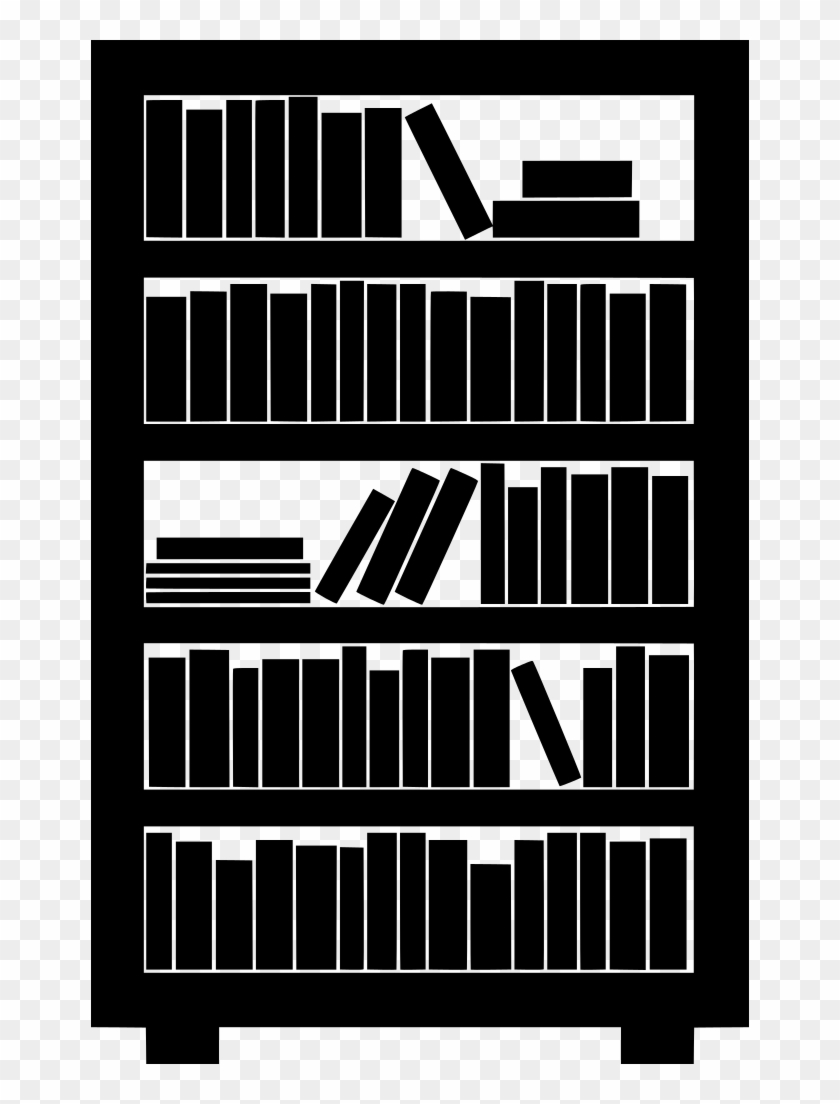
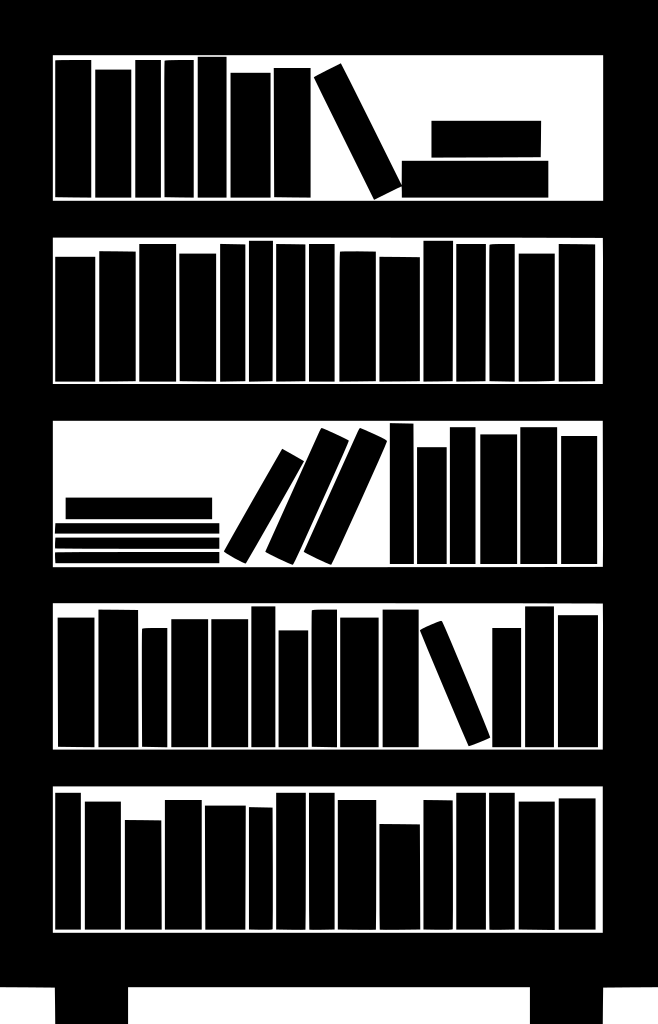
Add files via upload

diff --git a/Progetto/progetto.js b/Progetto/progetto.js
@@ -4,16 +4,16 @@ const Home = {
         <div><img src="./img/barra.jpg" alt="" /></div>
         <section>
             <h2 class="text-primary" id="primo">Cos'è una SEO?</h2>
-            <p class="text-secondary">SEO sta per “Search Engine Optimization.” È la pratica di aumentare sia la qualità che la quantità del <a href="./glossario.html#traffico">traffico</a> del sito Web, nonché l'esposizione al tuo marchio, attraverso risultati dei <a href="#terzo">motori di ricerca</a>                non a pagamento (noti anche come "organici").
+            <p class="text-secondary">SEO sta per “Search Engine Optimization.” È la pratica di aumentare sia la qualità che la quantità del <router-link to="/glossario">traffico</router-link> del sito Web, nonché l'esposizione al tuo marchio, attraverso risultati dei motori di ricerca           non a pagamento (noti anche come "organici").
                 <br/><br/> Nonostante l'acronimo, SEO riguarda tanto le persone quanto gli stessi motori di ricerca. Si tratta di capire cosa cercano le persone online, le risposte che vogliono, le parole che usano e il tipo di contenuto che desiderano
                 consumare. Conoscere le risposte a queste domande consente di entrare in contatto con le persone che cercano online le soluzioni che puoi offrire.
             </p>
         </section>
         <section>
             <h2 class="text-primary" id="sec">Perché è così importante</h2>
-            <p class="text-secondary">Sebbene la pubblicità a pagamento, i <a href="./glossario.html#social">social media</a> e altre piattaforme online possano generare <a href="./glossario.html#traffico">traffico</a> verso i siti Web, la maggior parte del traffico online è guidata
-                dai <a href="#terzo">motori di ricerca</a>.
-                <br/><br/> I risultati di ricerca <a href="./glossario.html#organico">organici</a> coprono più proprietà digitali, appaiono più credibili agli utenti esperti e ricevono molti più clic rispetto agli annunci a pagamento. Ad esempio, di tutte
+            <p class="text-secondary">Sebbene la pubblicità a pagamento, i <router-link to="/glossario">social media</router-link> e altre piattaforme online possano generare <router-link to="/glossario">traffico</router-link> verso i siti Web, la maggior parte del traffico online è guidata
+                dai motori di ricerca.
+                <br/><br/> I risultati di ricerca <router-link to="/glossario">organici</router-link> coprono più proprietà digitali, appaiono più credibili agli utenti esperti e ricevono molti più clic rispetto agli annunci a pagamento. Ad esempio, di tutte
                 le ricerche negli Stati Uniti, solo il 2,8% circa delle persone fa clic su annunci a pagamento.
                 <br/><br/> La SEO è anche uno dei pochi canali di marketing online che, se impostato correttamente, può continuare a dare i suoi frutti nel tempo. Se fornisci un contenuto solido che merita di essere classificato per le parole chiave giuste,
                 il tuo traffico può aumentare di volume nel tempo, mentre la pubblicità ha bisogno di finanziamenti continui per inviare traffico al tuo sito.
@@ -24,65 +24,55 @@ const Home = {
             <h2 class="text-primary" id="terzo">Motori di Ricerca</h2>
             <p class="text-secondary">I motori di ricerca sono macchine di risposta. Perlustrano miliardi di contenuti e valutano migliaia di fattori per determinare quale contenuto ha maggiori probabilità di rispondere alla tua domanda.
                 <br/><br/> I motori di ricerca fanno tutto questo scoprendo e catalogando tutti i contenuti disponibili su Internet (pagine Web, PDF, immagini, video, ecc.) tramite un processo noto come "scansione e indicizzazione" e quindi ordinandoli
-                in corrispondenza alla <a href="./glossario.html#query">query</a> in un processo denominato “ranking/classifica”.
+                in corrispondenza alla <router-link to="/glossario">query</router-link> in un processo denominato “ranking/classifica”.
             </p>
         </section>
         <section>
             <h2 class="text-primary" id="quarto">Come funzionano?</h2>
             <p class="text-secondary">I motori di ricerca funzionano attraverso tre funzioni principali:
-                <br/><br/> Scansione: esplora Internet alla ricerca di contenuti, esaminando il codice/il contenuto per ogni <a href="./glossario.html#url">URL</a> che trovano.
-                <br/><br/>Indicizzazione: archivia e organizza i contenuti trovati durante il processo di scansione. Una volta che una pagina è nell'indice, è in esecuzione per essere visualizzata come risultato di <a href="./glossario.html#query">query</a>                pertinenti.
+                <br/><br/> Scansione: esplora Internet alla ricerca di contenuti, esaminando il codice/il contenuto per ogni <router-link to="/glossario">URL</router-link> che trovano.
+                <br/><br/>Indicizzazione: archivia e organizza i contenuti trovati durante il processo di scansione. Una volta che una pagina è nell'indice, è in esecuzione per essere visualizzata come risultato di <router-link to="/glossario">query</router-link>                pertinenti.
                 <br/><br/>Classifica: fornisci i contenuti che rispondono meglio alla query di un ricercatore, il che significa che i risultati sono ordinati dal più pertinente al meno pertinente.
             </p>
         </section>
         <section>
             <h2 class="text-primary" id="quinto">Che cos'è la scansione?</h2>
-            <p class="text-secondary">La scansione è il processo di scoperta in cui i motori di ricerca inviano un team di <a href="./glossario.html#bot">bot</a> (noti come crawler o spider) per trovare contenuti nuovi e aggiornati. Il contenuto può variare — potrebbe essere una
+            <p class="text-secondary">La scansione è il processo di scoperta in cui i motori di ricerca inviano un team di <router-link to="/glossario">bot</router-link> (noti come crawler o spider) per trovare contenuti nuovi e aggiornati. Il contenuto può variare — potrebbe essere una
                 pagina web, un'immagine, un video, un PDF, ecc. — ma indipendentemente dal formato, il contenuto viene scoperto dai link.
-                <br/><br/> Googlebot inizia recuperando alcune pagine Web, quindi segue i collegamenti su tali pagine Web per trovare nuovi <a href="./glossario.html#url">URL</a>. Saltando lungo questo percorso di collegamenti, il crawler è in grado di
-                trovare nuovo contenuto e aggiungerlo al proprio indice chiamato <a href="./glossario.html#caf">Caffeine</a>, un enorme <a href="./glossario.html#url">database</a> di URL scoperti, per essere successivamente recuperato quando un ricercatore
+                <br/><br/> Googlebot inizia recuperando alcune pagine Web, quindi segue i collegamenti su tali pagine Web per trovare nuovi <router-link to="/glossario">URL</router-link>. Saltando lungo questo percorso di collegamenti, il crawler è in grado di
+                trovare nuovo contenuto e aggiungerlo al proprio indice chiamato <router-link to="/glossario">Caffeine</router-link>, un enorme <router-link to="/glossario">database</router-link> di URL scoperti, per essere successivamente recuperato quando un ricercatore
                 cerca informazioni e in quell’ URL si trova contenuto adatto alla ricerca.
             </p>
         </section>
         <section>
             <h2 class="text-primary" id="sesto">Che cos'è un indice?</h2>
-            <p class="text-secondary">I motori di ricerca elaborano e archiviano le informazioni che trovano in un indice, un enorme <a href="./glossario.html#url">database</a> di tutti i contenuti che hanno scoperto e che ritengono sufficientemente buoni da essere visualizzati
+            <p class="text-secondary">I motori di ricerca elaborano e archiviano le informazioni che trovano in un indice, un enorme <router-link to="/glossario">database</router-link> di tutti i contenuti che hanno scoperto e che ritengono sufficientemente buoni da essere visualizzati
                 dagli utenti.
             </p>
         </section>
         <section>
             <h2 class="text-primary" id="sett">Classifica sui motori di ricerca</h2>
             <p class="text-secondary">Quando qualcuno esegue una ricerca, i motori di ricerca setacciano il loro indice alla ricerca di contenuti altamente pertinenti e quindi ordinano quel contenuto nella speranza di risolvere la query del ricercatore. Questo ordinamento dei
-                risultati di ricerca per pertinenza è noto come ranking. In generale, puoi presumere che più alto è il ranking di un sito web, più il motore di ricerca ritiene che il sito sia pertinente alla <a href="./glossario.html#query">query</a>.
+                risultati di ricerca per pertinenza è noto come ranking. In generale, puoi presumere che più alto è il ranking di un sito web, più il motore di ricerca ritiene che il sito sia pertinente alla <router-link to="/glossario">query</router-link>.
                 <br/><br/> È possibile bloccare i crawler dei motori di ricerca da parte o tutto il tuo sito, o istruire i motori di ricerca per evitare di memorizzare determinate pagine nel loro indice. Anche se possono esserci delle ragioni per farlo,
                 se si vuole che i propri contenuti vengano trovati dai ricercatori, bisogna prima assicurarsi che siano accessibili ai crawler e che siano indicizzabili.
             </p>
         </section>
         <section>
             <h2 class="text-primary" id="ott">In che modo classificano gli URL?</h2>
-            <p class="text-secondary">Per determinare la pertinenza, i motori di ricerca utilizzano <a href="./glossario.html#alg">algoritmi</a>, un processo o una formula mediante il quale le informazioni archiviate vengono recuperate e ordinate in modo significativo. Questi
+            <p class="text-secondary">Per determinare la pertinenza, i motori di ricerca utilizzano <router-link to="/glossario">algoritmi</router-link>, un processo o una formula mediante il quale le informazioni archiviate vengono recuperate e ordinate in modo significativo. Questi
                 algoritmi hanno subito molti cambiamenti nel corso degli anni al fine di migliorare la qualità dei risultati di ricerca. Google, ad esempio, apporta modifiche all'algoritmo ogni giorno: alcuni di questi aggiornamenti sono modifiche di
-                qualità minori, mentre altri sono aggiornamenti di algoritmi principali implementati per affrontare un problema specifico, come Penguin per contrastare lo spam nei <a href="./altro.html">link</a>.
+                qualità minori, mentre altri sono aggiornamenti di algoritmi principali implementati per affrontare un problema specifico, come Penguin per contrastare lo spam nei <router-link to="/altro">link</router-link>.
                 <br/><br/> Perché l'algoritmo cambia così spesso? Sebbene Google non riveli sempre i dettagli sul motivo per cui fanno quello che fanno, sappiamo che l'obiettivo di Google quando apporta modifiche all'algoritmo è migliorare la qualità
                 complessiva della ricerca
             </p>
         </section>
-        <form action="/altro">
+        <form action="index.html#/altro">
             <input type="submit" value="Avanti" />
         </form>
     </main>
-    <aside>
-        <h2>Argomenti</h2>
-        <ul>
-            <li><a href="#primo">Cos'è una SEO?</a></li>
-            <li><a href="#sec">Perché è così importante</a></li>
-            <li><a href="#terzo">Motori di Ricerca</a></li>
-            <li><a href="#quarto">Come funzionano?</a></li>
-            <li><a href="#quinto">Che cos'è la scansione?</a></li>
-            <li><a href="#sesto">Che cos'è un indice?</a></li>
-            <li><a href="#sett">Classifica sui motori di ricerca</a></li>
-            <li><a href="#ott">In che modo classificano gli URL?</a></li>
-        </ul>
+    <aside class="scaf">
+        <img src="./img/seo.png" alt="" />
     </aside>
     `
 };
@@ -95,7 +85,7 @@ const Altro = {
             <h2 class="text-primary" id="primo">Il ruolo dei link nella SEO</h2>
             <p class="text-secondary" id="">Quando si parla di link, si possono intendere due cose. I backlink o "link interni" sono collegamenti da altri siti Web che puntano al proprio sito Web, mentre i collegamenti interni sono collegamenti al proprio sito che puntano ad altre pagine
                 (sullo stesso sito).
-                <br/><br/> I link hanno storicamente svolto un ruolo importante nella SEO. Molto presto, i motori di ricerca avevano bisogno di aiuto per capire quali <a href="./glossario.html#url">URL</a> fossero più affidabili di altri per aiutarli
+                <br/><br/> I link hanno storicamente svolto un ruolo importante nella SEO. Molto presto, i motori di ricerca avevano bisogno di aiuto per capire quali <router-link to="/glossario">URL</router-link> fossero più affidabili di altri per aiutarli
                 a determinare come classificare i risultati di ricerca. Il calcolo del numero di collegamenti che puntano a un determinato sito li ha aiutati a farlo.
                 <br/>
             </p>
@@ -106,7 +96,7 @@ const Altro = {
                 <br/> Recensione dall'admin = di parte, quindi segno di rilevanza poco significativo
                 <br/> Recensione da fonti irrilevanti o di bassa affidabilità = non un buon segno di rilevanza e può farti segnalare per spam
                 <br/> Nessuna recensione = non chiaro
-                <br/><br/> Questo è il motivo per cui è stato creato il PageRank. PageRank (parte dell'algoritmo principale di Google) è un <a href="./glossario.html#alg">algoritmo</a> di analisi dei link che prende il nome da uno dei fondatori di Google,
+                <br/><br/> Questo è il motivo per cui è stato creato il PageRank. PageRank (parte dell'algoritmo principale di Google) è un <router-link to="/glossario">algoritmo</router-link> di analisi dei link che prende il nome da uno dei fondatori di Google,
                 Larry Page. PageRank stima l'importanza di una pagina web misurando la qualità e la quantità dei link che puntano ad essa. Il presupposto è che più una pagina web è rilevante, importante e affidabile, più link avrà guadagnato.
             </p>
         </section>
@@ -117,7 +107,7 @@ const Altro = {
                 </br>
                 </br>
                 Ogni volta che qualcuno esegue una ricerca, ci sono migliaia di risultati possibili, quindi in che modo i motori di ricerca decidono quali pagine il ricercatore troverà preziose? Una parte importante del determinare dove si classificherà la tua pagina
-                per una determinata <a href="./glossario.html#query">query</a> è quanto bene il contenuto della tua pagina corrisponde all'intento della query. In altre parole, questa pagina corrisponde alle parole cercate e aiuta a svolgere
+                per una determinata <router-link to="/glossario">query</router-link> è quanto bene il contenuto della tua pagina corrisponde all'intento della query. In altre parole, questa pagina corrisponde alle parole cercate e aiuta a svolgere
                 il compito che il ricercatore stava cercando di svolgere?
                 <br/><br/> A causa di questa attenzione alla soddisfazione degli utenti e alla realizzazione delle attività, non ci sono parametri di riferimento rigorosi su quanto dovrebbero essere lunghi i tuoi contenuti, quante volte dovrebbero contenere
                 una parola chiave o cosa inserisci nei tag di intestazione. Tutti ciò gioca un ruolo importante per definire quanto la pagina performi bene durante la ricerca, ma l'attenzione dovrebbe essere sugli utenti che leggeranno il contenuto.
@@ -127,11 +117,11 @@ const Altro = {
         </section>
         <section>
             <h2 class="text-primary" id="terzo">Cos'è RankBrain?</h2>
-            <p class="text-secondary">RankBrain è il componente di apprendimento automatico dell'<a href="./glossario.html#alg">algoritmo</a> principale di Google. Il Machine learning è un programma per computer che continua a migliorare le sue previsioni nel tempo attraverso
+            <p class="text-secondary">RankBrain è il componente di apprendimento automatico dell'<router-link to="/glossario">algoritmo</router-link> principale di Google. Il Machine learning è un programma per computer che continua a migliorare le sue previsioni nel tempo attraverso
                 nuove osservazioni e dati di addestramento. In altre parole, impara sempre e, poiché impara sempre, i risultati della ricerca dovrebbero migliorare costantemente.
                 </br>
                 </br>
-                Ad esempio, se RankBrain nota un <a href="./glossario.html#url">URL</a> con un ranking più basso che fornisce un risultato migliore agli utenti rispetto agli URL con un ranking più alto, RankBrain regolerà quei risultati, spostando il
+                Ad esempio, se RankBrain nota un <router-link to="/glossario">URL</router-link> con un ranking più basso che fornisce un risultato migliore agli utenti rispetto agli URL con un ranking più alto, RankBrain regolerà quei risultati, spostando il
                 risultato più rilevante più in alto e retrocedendo le pagine meno rilevanti come sottoprodotto.
             </p>
             <div><img src="./img/rankbrain.PNG" alt="spostamento di rank" /></div>
@@ -140,13 +130,8 @@ const Altro = {
             <input type="submit" value="Indietro" />
         </form>
     </main>
-    <aside>
-        <h2>Argomenti</h2>
-        <ul>
-            <li><a href="#primo">Il ruolo dei link nella SEO</a></li>
-            <li><a href="#sec">Il ruolo dei contenuti nella SEO</a></li>
-            <li><a href="#terzo">Cos'è RankBrain?</a></li>
-        </ul>
+    <aside class="scaf">
+        <img src="./img/url.jpg" alt="" />
     </aside>
     `
 };
@@ -170,7 +155,7 @@ const Glossario = {
         </form>
     </main>
     <aside class="scaf">
-        <img src="./img/pinpng.com-bookshelf-png-1701154.png" alt="">
+        <img src="./img/scaffale.png" alt="">
     </aside> 
      `,
     methods: {
@@ -258,7 +243,19 @@ const routes = [
 
 const router = VueRouter.createRouter({
     history: VueRouter.createWebHashHistory(),
-    routes
+    routes,
+    scrollBehavior(to, from, savedPosition) {
+        if (savedPosition) {
+            return savedPosition;
+        } else {
+            const position = {};
+            if (to.hash) {
+                position.selector = to.hash;
+                return false;
+            }
+        }
+    }
+
 });
 
 const app = Vue.createApp({});

diff --git a/Progetto/index.html b/Progetto/index.html
@@ -9,35 +9,36 @@
 </head>
 
 <body class="bg-white">
-
-    <header>
-        <h1>
-            <router-link to="/">SEO</router-link>
-        </h1>
-        <nav>
-            <ul>
-                <li>
-                    <router-link to="/ricerche">Più Cercati</router-link>
-                </li>
-                <li>
-                    <router-link to="/glossario">Glossario</router-link>
-                </li>
-                <li>
-                    <router-link to="/altro">Altro</router-link>
-                </li>
-                <li>
-                    <router-link to="/">Home</router-link>
-                </li>
-            </ul>
-        </nav>
-    </header>
     <div id="app">
+        <header>
+            <h1>
+                <router-link to="/">SEO</router-link>
+            </h1>
+            <nav>
+                <ul>
+                    <li>
+                        <router-link to="/ricerche">Più Cercati</router-link>
+                    </li>
+                    <li>
+                        <router-link to="/glossario">Glossario</router-link>
+                    </li>
+                    <li>
+                        <router-link to="/altro">Altro</router-link>
+                    </li>
+                    <li>
+                        <router-link to="/">Home</router-link>
+                    </li>
+                </ul>
+            </nav>
+        </header>
+
         <router-view></router-view>
+
+        <footer>
+            <p>Progetto Fondamenti di Sistemi Web A.A. 2021-2022</p>
+            <p>Andrea Pertegato - Cristian Leonardo Postovan</p>
+        </footer>
     </div>
-    <footer>
-        <p>Progetto Fondamenti di Sistemi Web A.A. 2021-2022</p>
-        <p>Andrea Pertegato - Cristian Leonardo Postovan</p>
-    </footer>
     <script src="https://unpkg.com/vue@3"></script>
     <script src="https://unpkg.com/vue-router@4"></script>
     <script src="https://unpkg.com/axios/dist/axios.min.js"></script>

diff --git a/Progetto/CSS/style.css b/Progetto/CSS/style.css
@@ -1,17 +1,17 @@
-body>header,
-body>footer {
+div#app>header,
+div#app>footer {
     background-color: rgb(46, 46, 146);
     color: white;
     padding: 5px 0;
 }
 
-body>header {
+div#app>header {
     width: 100%;
     padding-bottom: 40px;
     padding-left: 5%;
 }
 
-body>footer {
+div#app>footer {
     text-align: center;
 }
 
@@ -78,8 +78,6 @@ aside {
 }
 
 aside {
-    border: 2px solid rgb(46, 46, 146);
-    border-radius: 4%;
     padding-left: 10px;
 }
 
@@ -181,7 +179,7 @@ td {
     vertical-align: middle;
 }
 
-@media screen and (min-width:1100px) {
+@media screen and (min-width:1024px) {
     .text-secondary,
     nav ul li a,
     aside ul li a {
@@ -215,7 +213,8 @@ td {
         display: inline-block;
         border: none;
         position: static;
-        width: 25%;
+        width: 23%;
+        margin-right: 2%;
     }
     .piccolo {
         width: 55%;
